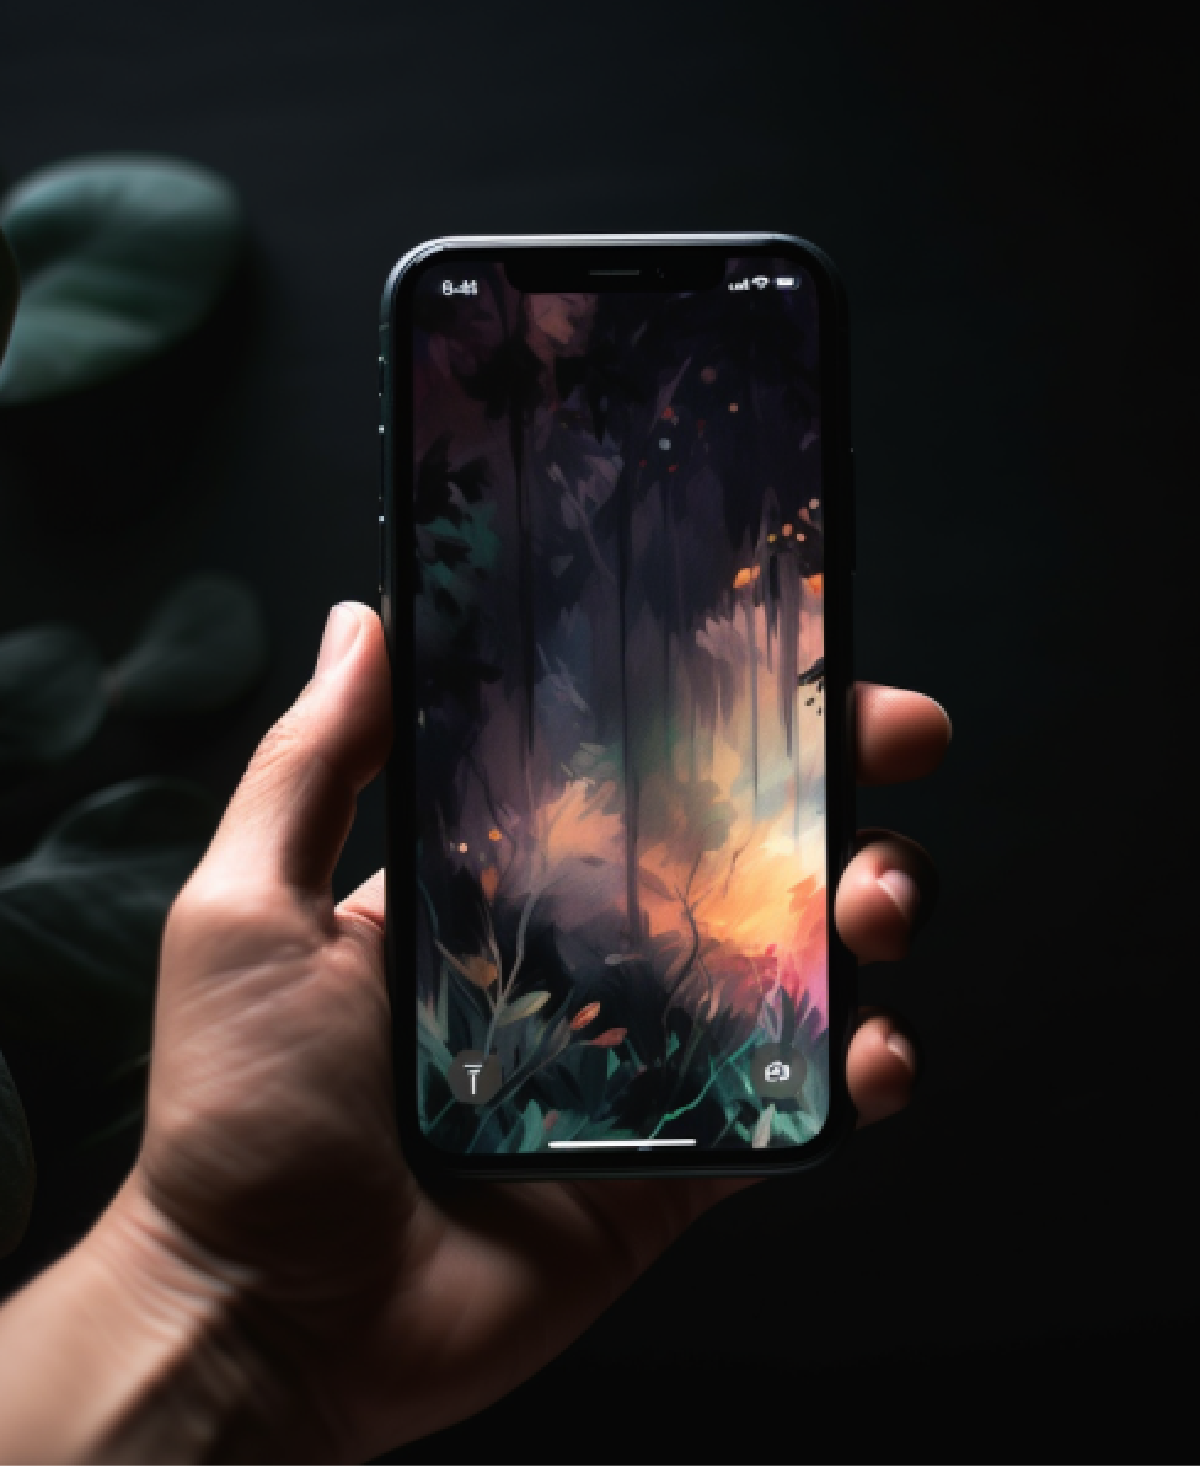
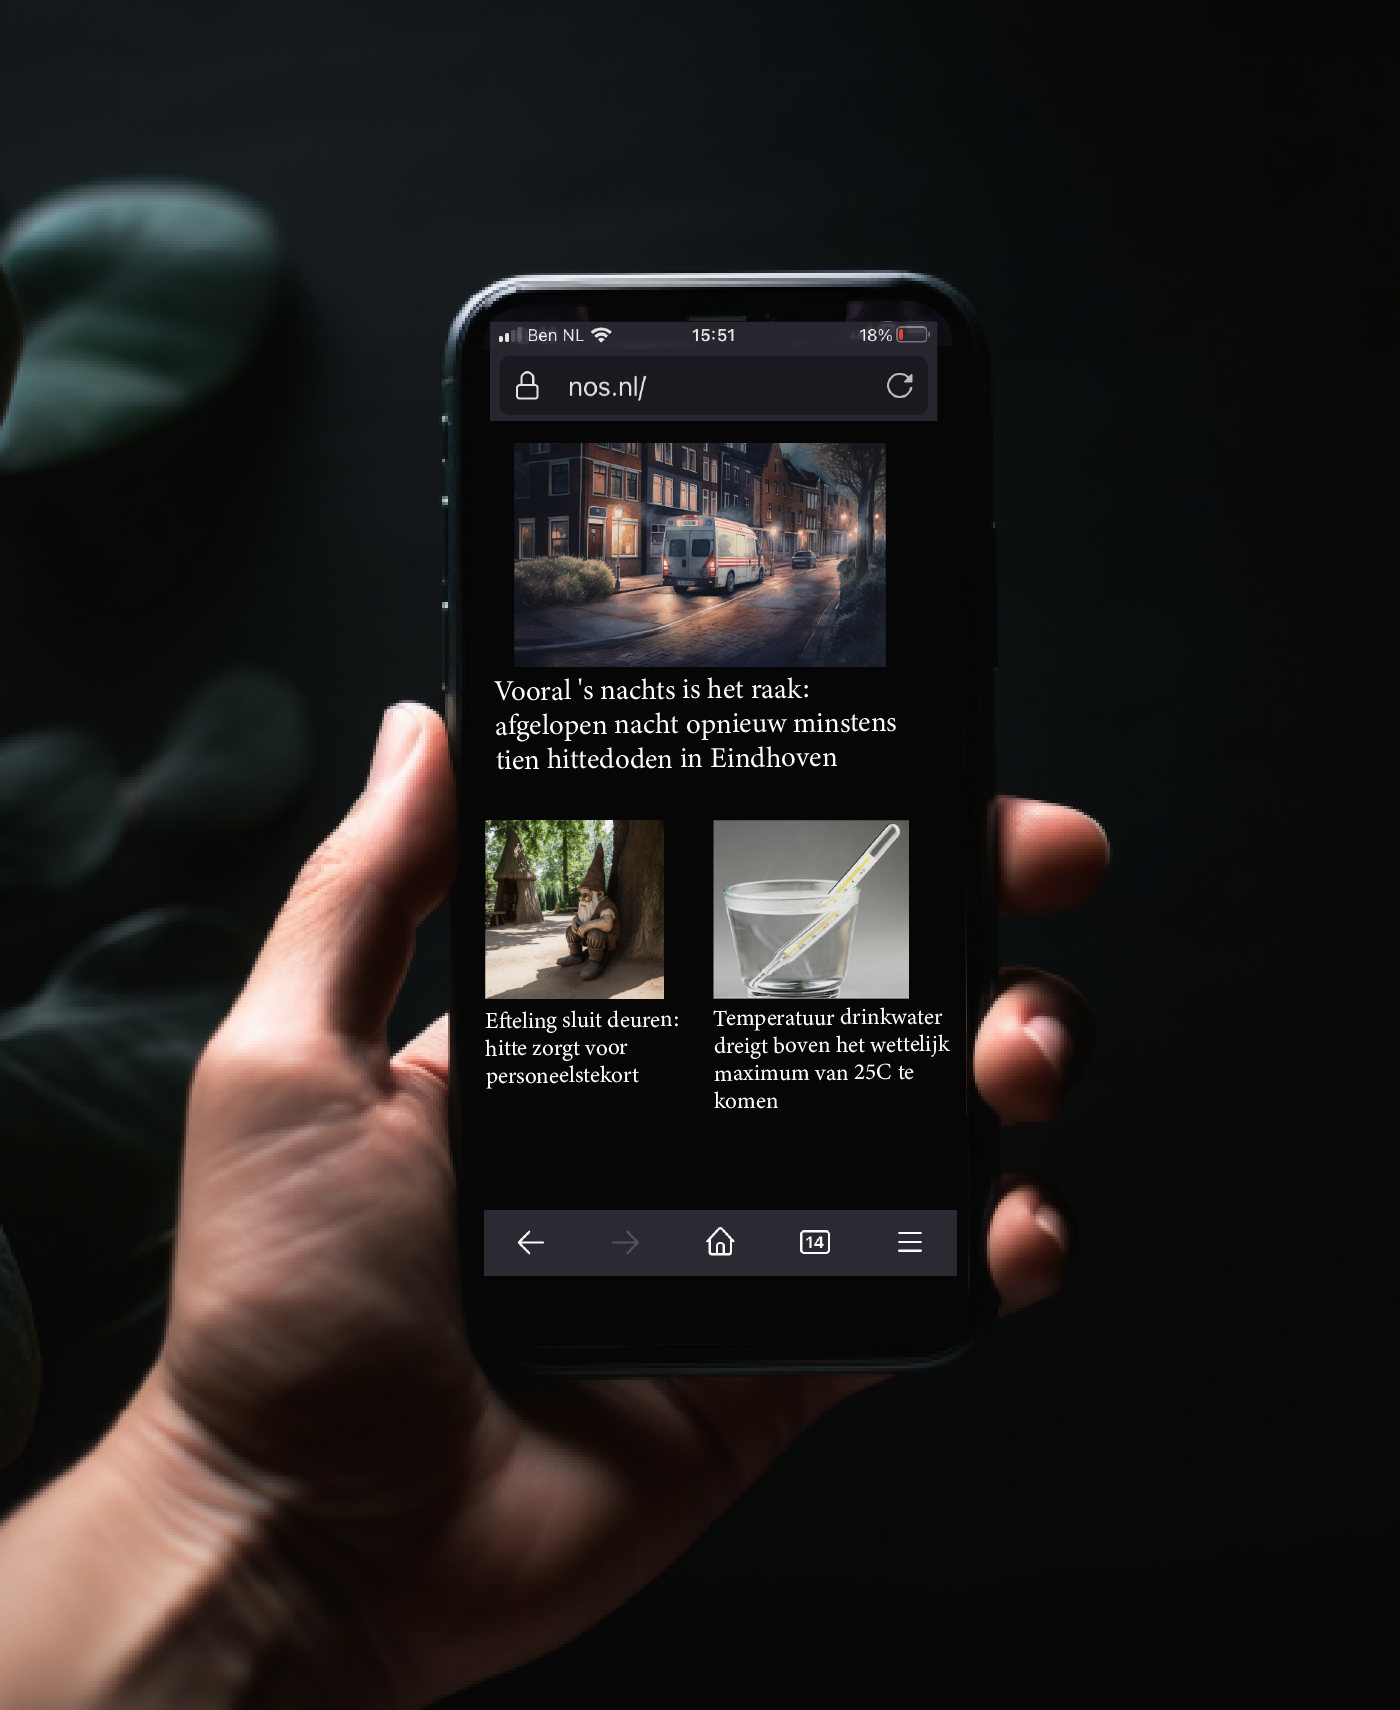
holding phone

Changed region(s): [[0.3392, 0.1842, 0.7092, 0.7981]]

diff --git a/src/lib/components/Krantenkoppen.svelte b/src/lib/components/Krantenkoppen.svelte
@@ -14,39 +14,44 @@
     stepSize = getStepSize(stepName);
   })
 
-  const scenes = [
-    {
-      name:'heatwave',
-      image:'png',
-      time:0.1,
-      text:"Vooral 's nachts is het raak: afgelopen nacht opnieuw minstens tien hittedoden in Eindhoven.",
-      class:'scroll-text nighttext krant'
-    },
-    {
-      name:'dwerg',
-      image:'png',
-      time:0.4,
-      text:'Efteling sluit deuren: hitte zorgt voor personeelstekort',
-      class: 'scroll-text nighttext krant'
-    },
-    {
-      name:'drinken',
-      image:'png',
-      time:0.7,
-      text:'Temperatuur drinkwater dreigt boven het wettelijk maximum van 25 &degC te komen',
-      class: 'scroll-text nighttext krant'
-    }
-  ]
+  // const scenes = [
+  //   {
+  //     name:'heatwave',
+  //     image:'png',
+  //     time:0.1,
+  //     text:"Vooral 's nachts is het raak: afgelopen nacht opnieuw minstens tien hittedoden in Eindhoven.",
+  //     class:'scroll-text nighttext krant'
+  //   },
+  //   {
+  //     name:'dwerg',
+  //     image:'png',
+  //     time:0.4,
+  //     text:'Efteling sluit deuren: hitte zorgt voor personeelstekort',
+  //     class: 'scroll-text nighttext krant'
+  //   },
+  //   {
+  //     name:'drinken',
+  //     image:'png',
+  //     time:0.7,
+  //     text:'Temperatuur drinkwater dreigt boven het wettelijk maximum van 25 &degC te komen',
+  //     class: 'scroll-text nighttext krant'
+  //   }
+  // ]
 
-  let currentScene;
-  afterUpdate(() => {
-    currentScene = showImages(stepName, currentStepName, scenes, currentScene, offset)
-  })
+  // let currentScene;
+  // afterUpdate(() => {
+  //   currentScene = showImages(stepName, currentStepName, scenes, currentScene, offset)
+  // })
 
 </script>
 
 <div class='stepdiv'>
-  <TextAndImagesScenes {scenes} {stepSize}/>
+  <!-- <TextAndImagesScenes {scenes} {stepSize}/> -->
+  
+  <div class='scroll-text-block night' style='top:{`${0.125*stepSize}px`}; width:80%; left:10%; border: none;'>
+    <img class='nielsgaatwandelen' style='height:140vh' src={'/images/holdingphone.png'} />
+  </div>
+
 </div>
 
 {#if stepName === currentStepName}
